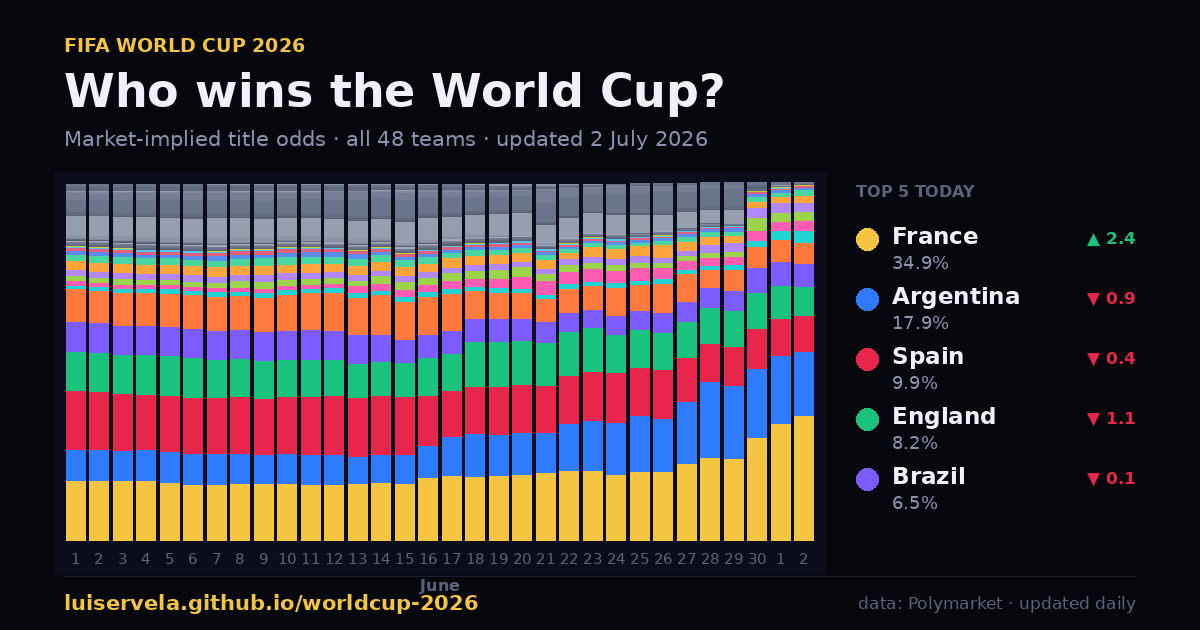
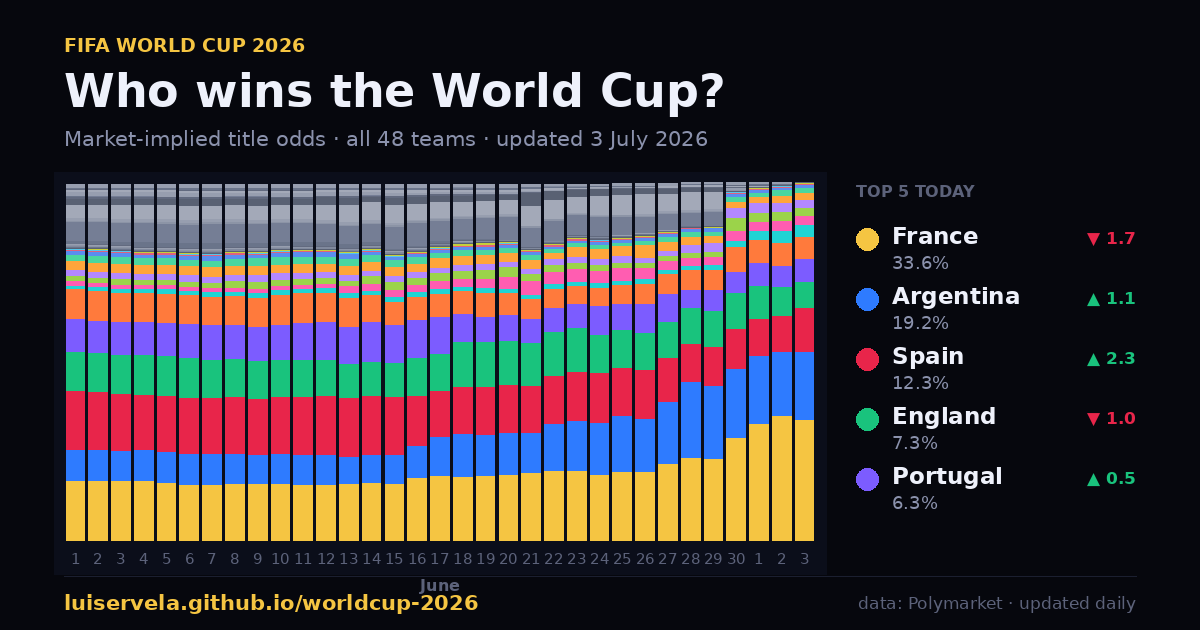
chore: odds snapshot 2026-07-03

diff --git a/history.js b/history.js
@@ -1,4 +1,4 @@
 /* Auto-generated by .github/workflows/odds-snapshot.yml — do not edit by hand.
    Owned daily archive of Polymarket win-probabilities; lets the chart render
    forever, even after the market closes. snapshots: [{date, p:{CODE: yesPrice}}]. */
-const HISTORY = {"updated":"2026-07-02T08:49:07.555Z","snapshots":[{"date":"2026-06-01","p":{"ESP":0.1695,"NZL":0.0005,"SUI":0.0115,"ENG":0.1115,"FRA":0.1705,"KOR":0.0025,"HAI":0.0005,"BRA":0.0865,"JOR":0.0005,"CUW":0.0005,"ARG":0.0895,"GER":0.0545,"COL":0.0175,"IRN":0.0015,"POR":0.0935,"GHA":0.0025,"NED":0.0365,"ALG":0.0015,"BIH":0.0025,"USA":0.0115,"CAN":0.0035,"TUR":0.0085,"URU":0.0105,"MEX":0.0105,"PAR":0.0025,"SCO":0.0025,"JPN":0.0175,"NOR":0.0255,"TUN":0.0015,"ECU":0.0085,"UZB":0.0005,"MAR":0.0145,"PAN":0.0005,"IRQ":0.0005,"RSA":0.0005,"SEN":0.0065,"CIV":0.0025,"COD":0.0005,"CPV":0.0005,"CZE":0.0025,"QAT":0.0005,"BEL":0.0175,"AUS":0.0015,"KSA":0.0005,"AUT":0.0055,"CRO":0.0085,"EGY":0.0025,"SWE":0.0055}},{"date":"2026-06-02","p":{"ESP":0.1675,"NZL":0.0005,"SUI":0.0115,"ENG":0.1115,"FRA":0.1705,"KOR":0.0025,"HAI":0.0005,"BRA":0.0855,"JOR":0.0005,"CUW":0.0005,"ARG":0.0895,"GER":0.0555,"COL":0.0175,"IRN":0.0015,"POR":0.0935,"GHA":0.0025,"NED":0.0365,"ALG":0.0015,"BIH":0.0025,"USA":0.0115,"CAN":0.0035,"TUR":0.0085,"URU":0.0115,"MEX":0.0105,"PAR":0.0025,"SCO":0.0025,"JPN":0.0175,"NOR":0.0265,"TUN":0.0015,"ECU":0.0085,"UZB":0.0005,"MAR":0.0155,"PAN":0.0005,"IRQ":0.0005,"RSA":0.0005,"SEN":0.0065,"CIV":0.0025,"COD":0.0005,"CPV":0.0005,"CZE":0.0025,"QAT":0.0005,"BEL":0.0195,"AUS":0.0015,"KSA":0.0005,"AUT":0.0055,"CRO":0.0085,"EGY":0.0025,"SWE":0.0055}},{"date":"2026-06-03","p":{"ESP":0.1635,"NZL":0.0005,"SUI":0.0105,"ENG":0.1115,"FRA":0.1705,"KOR":0.0025,"HAI":0.0005,"BRA":0.0835,"JOR":0.0005,"CUW":0.0005,"ARG":0.0875,"GER":0.0555,"COL":0.0175,"IRN":0.0015,"POR":0.0955,"GHA":0.0025,"NED":0.0395,"ALG":0.0015,"BIH":0.0025,"USA":0.0115,"CAN":0.0035,"TUR":0.0105,"URU":0.0115,"MEX":0.0115,"PAR":0.0025,"SCO":0.0025,"JPN":0.0175,"NOR":0.0275,"TUN":0.0005,"ECU":0.0085,"UZB":0.0005,"MAR":0.0155,"PAN":0.0005,"IRQ":0.0005,"RSA":0.0005,"SEN":0.0065,"CIV":0.0025,"COD":0.0005,"CPV":0.0005,"CZE":0.0025,"QAT":0.0005,"BEL":0.0195,"AUS":0.0015,"KSA":0.0005,"AUT":0.0055,"CRO":0.0085,"EGY":0.0025,"SWE":0.0055}},{"date":"2026-06-04","p":{"ESP":0.1595,"NZL":0.0005,"SUI":0.0095,"ENG":0.1145,"FRA":0.1705,"KOR":0.0025,"HAI":0.0005,"BRA":0.0825,"JOR":0.0005,"CUW":0.0005,"ARG":0.0895,"GER":0.0555,"COL":0.0175,"IRN":0.0015,"POR":0.0955,"GHA":0.0025,"NED":0.0395,"ALG":0.0015,"BIH":0.0025,"USA":0.0115,"CAN":0.0035,"TUR":0.0135,"URU":0.0115,"MEX":0.0115,"PAR":0.0025,"SCO":0.0025,"JPN":0.0175,"NOR":0.0255,"TUN":0.0005,"ECU":0.0085,"UZB":0.0005,"MAR":0.0155,"PAN":0.0005,"IRQ":0.0005,"RSA":0.0005,"SEN":0.0065,"CIV":0.0035,"COD":0.0005,"CPV":0.0005,"CZE":0.0025,"QAT":0.0005,"BEL":0.0195,"AUS":0.0015,"KSA":0.0005,"AUT":0.0055,"CRO":0.0085,"EGY":0.0025,"SWE":0.0055}},{"date":"2026-06-05","p":{"ESP":0.1595,"NZL":0.0005,"SUI":0.0095,"ENG":0.1145,"FRA":0.1645,"KOR":0.0025,"HAI":0.0005,"BRA":0.0835,"JOR":0.0005,"CUW":0.0005,"ARG":0.0885,"GER":0.0535,"COL":0.0175,"IRN":0.0015,"POR":0.0935,"GHA":0.0025,"NED":0.0395,"ALG":0.0015,"BIH":0.0025,"USA":0.0115,"CAN":0.0035,"TUR":0.013,"URU":0.0115,"MEX":0.0135,"PAR":0.0025,"SCO":0.0025,"JPN":0.0185,"NOR":0.0255,"TUN":0.0005,"ECU":0.0085,"UZB":0.0005,"MAR":0.0155,"PAN":0.0005,"IRQ":0.0005,"RSA":0.0005,"SEN":0.0065,"CIV":0.0045,"COD":0.0005,"CPV":0.0005,"CZE":0.0025,"QAT":0.0005,"BEL":0.0195,"AUS":0.0015,"KSA":0.0005,"AUT":0.0055,"CRO":0.0085,"EGY":0.0015,"SWE":0.0055}},{"date":"2026-06-06","p":{"ESP":0.1595,"NZL":0.0005,"SUI":0.0105,"ENG":0.1125,"FRA":0.1595,"KOR":0.0025,"HAI":0.0005,"BRA":0.0825,"JOR":0.0005,"CUW":0.0005,"ARG":0.0885,"GER":0.0535,"COL":0.0175,"IRN":0.0015,"POR":0.0965,"GHA":0.0025,"NED":0.0395,"ALG":0.0015,"BIH":0.0025,"USA":0.0115,"CAN":0.0035,"TUR":0.0135,"URU":0.0105,"MEX":0.0125,"PAR":0.0025,"SCO":0.0025,"JPN":0.0215,"NOR":0.0255,"TUN":0.0005,"ECU":0.0085,"UZB":0.0005,"MAR":0.0155,"PAN":0.0005,"IRQ":0.0005,"RSA":0.0005,"SEN":0.0065,"CIV":0.0045,"COD":0.0005,"CPV":0.0005,"CZE":0.0025,"QAT":0.0005,"BEL":0.0195,"AUS":0.0015,"KSA":0.0005,"AUT":0.0055,"CRO":0.0095,"EGY":0.0025,"SWE":0.0045}},{"date":"2026-06-07","p":{"ESP":0.1615,"NZL":0.0005,"SUI":0.0125,"ENG":0.1115,"FRA":0.1615,"KOR":0.0035,"HAI":0.0005,"BRA":0.0825,"JOR":0.0005,"CUW":0.0005,"ARG":0.0885,"GER":0.0565,"COL":0.0175,"IRN":0.0015,"POR":0.1005,"GHA":0.0015,"NED":0.0395,"ALG":0.0015,"BIH":0.0025,"USA":0.0115,"CAN":0.0035,"TUR":0.0145,"URU":0.0105,"MEX":0.0125,"PAR":0.0025,"SCO":0.0025,"JPN":0.0205,"NOR":0.0275,"TUN":0.0005,"ECU":0.0085,"UZB":0.0005,"MAR":0.0155,"PAN":0.0005,"IRQ":0.0005,"RSA":0.0005,"SEN":0.0065,"CIV":0.0045,"COD":0.0015,"CPV":0.0005,"CZE":0.0025,"QAT":0.0005,"BEL":0.0195,"AUS":0.0015,"KSA":0.0005,"AUT":0.0055,"CRO":0.0095,"EGY":0.0025,"SWE":0.0045}},{"date":"2026-06-08","p":{"ESP":0.1615,"NZL":0.0005,"SUI":0.0115,"ENG":0.1105,"FRA":0.1615,"KOR":0.0035,"HAI":0.0005,"BRA":0.0835,"JOR":0.0005,"CUW":0.0005,"ARG":0.0885,"GER":0.0545,"COL":0.0185,"IRN":0.0015,"POR":0.0965,"GHA":0.0015,"NED":0.0395,"ALG":0.0015,"BIH":0.0015,"USA":0.0115,"CAN":0.0035,"TUR":0.0135,"URU":0.0105,"MEX":0.0135,"PAR":0.0025,"SCO":0.0025,"JPN":0.0195,"NOR":0.0255,"TUN":0.0005,"ECU":0.0085,"UZB":0.0005,"MAR":0.0185,"PAN":0.0005,"IRQ":0.0005,"RSA":0.0005,"SEN":0.0065,"CIV":0.0045,"COD":0.0015,"CPV":0.0005,"CZE":0.0025,"QAT":0.0005,"BEL":0.0205,"AUS":0.0015,"KSA":0.0005,"AUT":0.0045,"CRO":0.0095,"EGY":0.0025,"SWE":0.0045}},{"date":"2026-06-09","p":{"ESP":0.1595,"NZL":0.0005,"SUI":0.0105,"ENG":0.1095,"FRA":0.1615,"KOR":0.0035,"HAI":0.0005,"BRA":0.0835,"JOR":0.0005,"CUW":0.0005,"ARG":0.0845,"GER":0.0535,"COL":0.0195,"IRN":0.0015,"POR":0.0985,"GHA":0.0015,"NED":0.0395,"ALG":0.0015,"BIH":0.0015,"USA":0.0115,"CAN":0.0035,"TUR":0.0125,"URU":0.0105,"MEX":0.0145,"PAR":0.0025,"SCO":0.0025,"JPN":0.0215,"NOR":0.0255,"TUN":0.0005,"ECU":0.0085,"UZB":0.0005,"MAR":0.0195,"PAN":0.0005,"IRQ":0.0005,"RSA":0.0005,"SEN":0.0065,"CIV":0.0045,"COD":0.0015,"CPV":0.0005,"CZE":0.0025,"QAT":0.0005,"BEL":0.0225,"AUS":0.0015,"KSA":0.0005,"AUT":0.0045,"CRO":0.0095,"EGY":0.0025,"SWE":0.0045}},{"date":"2026-06-10","p":{"ESP":0.1605,"NZL":0.0005,"SUI":0.0115,"ENG":0.1055,"FRA":0.1605,"KOR":0.0025,"HAI":0.0005,"BRA":0.0845,"JOR":0.0005,"CUW":0.0005,"ARG":0.0875,"GER":0.0525,"COL":0.0195,"IRN":0.0015,"POR":0.1015,"GHA":0.0015,"NED":0.0395,"ALG":0.0015,"BIH":0.0015,"USA":0.0115,"CAN":0.0035,"TUR":0.0115,"URU":0.0105,"MEX":0.0135,"PAR":0.0025,"SCO":0.0025,"JPN":0.0185,"NOR":0.0245,"TUN":0.0005,"ECU":0.0085,"UZB":0.0005,"MAR":0.0175,"PAN":0.0005,"IRQ":0.0005,"RSA":0.0005,"SEN":0.0065,"CIV":0.0045,"COD":0.0015,"CPV":0.0005,"CZE":0.0025,"QAT":0.0005,"BEL":0.0225,"AUS":0.0015,"KSA":0.0005,"AUT":0.0045,"CRO":0.0095,"EGY":0.0025,"SWE":0.0035}},{"date":"2026-06-11","p":{"ESP":0.1645,"NZL":0.0005,"SUI":0.0125,"ENG":0.1085,"FRA":0.1605,"KOR":0.0025,"HAI":0.0005,"BRA":0.0845,"JOR":0.0005,"CUW":0.0005,"ARG":0.0855,"GER":0.0525,"COL":0.0185,"IRN":0.0015,"POR":0.1055,"GHA":0.0015,"NED":0.0405,"ALG":0.0015,"BIH":0.0015,"USA":0.0115,"CAN":0.0035,"TUR":0.0125,"URU":0.0105,"MEX":0.0135,"PAR":0.0015,"SCO":0.0025,"JPN":0.0175,"NOR":0.0245,"TUN":0.0005,"ECU":0.0085,"UZB":0.0005,"MAR":0.0155,"PAN":0.0005,"IRQ":0.0005,"RSA":0.0005,"SEN":0.0075,"CIV":0.0045,"COD":0.0015,"CPV":0.0005,"CZE":0.0015,"QAT":0.0005,"BEL":0.0215,"AUS":0.0015,"KSA":0.0005,"AUT":0.0045,"CRO":0.0095,"EGY":0.0025,"SWE":0.0035}},{"date":"2026-06-12","p":{"ESP":0.1695,"NZL":0.0005,"SUI":0.0135,"ENG":0.1045,"FRA":0.1605,"KOR":0.0045,"HAI":0.0005,"BRA":0.0855,"JOR":0.0005,"CUW":0.0005,"ARG":0.0885,"GER":0.0515,"COL":0.0175,"IRN":0.0015,"POR":0.1105,"GHA":0.0015,"NED":0.0445,"ALG":0.0015,"BIH":0.0015,"USA":0.0115,"CAN":0.0035,"TUR":0.0115,"URU":0.0095,"MEX":0.0145,"PAR":0.0015,"SCO":0.0025,"JPN":0.0205,"NOR":0.0245,"TUN":0.0005,"ECU":0.0085,"UZB":0.0005,"MAR":0.0155,"PAN":0.0005,"IRQ":0.0005,"RSA":0.0005,"SEN":0.0065,"CIV":0.0035,"COD":0.0015,"CPV":0.0005,"CZE":0.0005,"QAT":0.0005,"BEL":0.0205,"AUS":0.0015,"KSA":0.0005,"AUT":0.0045,"CRO":0.0085,"EGY":0.0025,"SWE":0.0035}},{"date":"2026-06-13","p":{"ESP":0.1685,"NZL":0.0005,"SUI":0.0135,"ENG":0.0965,"FRA":0.1605,"KOR":0.0045,"HAI":0.0005,"BRA":0.0835,"JOR":0.0005,"CUW":0.0005,"ARG":0.0785,"GER":0.0515,"COL":0.0165,"IRN":0.0015,"POR":0.1055,"GHA":0.0015,"NED":0.0485,"ALG":0.0015,"BIH":0.0015,"USA":0.0195,"CAN":0.0025,"TUR":0.0115,"URU":0.0095,"MEX":0.0145,"PAR":0.0015,"SCO":0.0025,"JPN":0.0205,"NOR":0.0255,"TUN":0.0005,"ECU":0.0085,"UZB":0.0005,"MAR":0.0145,"PAN":0.0005,"IRQ":0.0005,"RSA":0.0005,"SEN":0.0065,"CIV":0.0035,"COD":0.0015,"CPV":0.0005,"CZE":0.0015,"QAT":0.0005,"BEL":0.0205,"AUS":0.0015,"KSA":0.0005,"AUT":0.0045,"CRO":0.0085,"EGY":0.0015,"SWE":0.0035}},{"date":"2026-06-14","p":{"ESP":0.1665,"NZL":0.0005,"SUI":0.0095,"ENG":0.0965,"FRA":0.1635,"KOR":0.0035,"HAI":0.0005,"BRA":0.0745,"JOR":0.0005,"CUW":0.0005,"ARG":0.0785,"GER":0.0515,"COL":0.0155,"IRN":0.0015,"POR":0.1135,"GHA":0.0015,"NED":0.0505,"ALG":0.0015,"BIH":0.0015,"USA":0.0205,"CAN":0.0025,"TUR":0.0065,"URU":0.0085,"MEX":0.0125,"PAR":0.0015,"SCO":0.0025,"JPN":0.0165,"NOR":0.0245,"TUN":0.0005,"ECU":0.0075,"UZB":0.0005,"MAR":0.0215,"PAN":0.0005,"IRQ":0.0005,"RSA":0.0005,"SEN":0.0065,"CIV":0.0035,"COD":0.0015,"CPV":0.0005,"CZE":0.0015,"QAT":0.0005,"BEL":0.0195,"AUS":0.0035,"KSA":0.0005,"AUT":0.0035,"CRO":0.0085,"EGY":0.0015,"SWE":0.0025}},{"date":"2026-06-15","p":{"ESP":0.1625,"NZL":0.0005,"SUI":0.0085,"ENG":0.0965,"FRA":0.1605,"KOR":0.0045,"HAI":0.0005,"BRA":0.0665,"JOR":0.0005,"CUW":0.0005,"ARG":0.0805,"GER":0.0615,"COL":0.0155,"IRN":0.0015,"POR":0.1075,"GHA":0.0015,"NED":0.0505,"ALG":0.0015,"BIH":0.0015,"USA":0.0205,"CAN":0.0025,"TUR":0.0045,"URU":0.0085,"MEX":0.0135,"PAR":0.0015,"SCO":0.0025,"JPN":0.0205,"NOR":0.0245,"TUN":0.0005,"ECU":0.0045,"UZB":0.0005,"MAR":0.0225,"PAN":0.0005,"IRQ":0.0005,"RSA":0.0005,"SEN":0.0065,"CIV":0.0055,"COD":0.0015,"CPV":0.0005,"CZE":0.0015,"QAT":0.0005,"BEL":0.0195,"AUS":0.0035,"KSA":0.0005,"AUT":0.0045,"CRO":0.0085,"EGY":0.0015,"SWE":0.0055}},{"date":"2026-06-16","p":{"ESP":0.1415,"NZL":0.0005,"SUI":0.0085,"ENG":0.1055,"FRA":0.1765,"KOR":0.0035,"HAI":0.0005,"BRA":0.0665,"JOR":0.0005,"CUW":0.0005,"ARG":0.0925,"GER":0.0635,"COL":0.0155,"IRN":0.0005,"POR":0.1075,"GHA":0.0015,"NED":0.0455,"ALG":0.0015,"BIH":0.0015,"USA":0.0205,"CAN":0.0025,"TUR":0.0045,"URU":0.0065,"MEX":0.0125,"PAR":0.0015,"SCO":0.0025,"JPN":0.0185,"NOR":0.0245,"TUN":0.0005,"ECU":0.0045,"UZB":0.0005,"MAR":0.0215,"PAN":0.0005,"IRQ":0.0005,"RSA":0.0005,"SEN":0.0065,"CIV":0.0055,"COD":0.0015,"CPV":0.0005,"CZE":0.0015,"QAT":0.0005,"BEL":0.0175,"AUS":0.0035,"KSA":0.0005,"AUT":0.0045,"CRO":0.0085,"EGY":0.0025,"SWE":0.0055}},{"date":"2026-06-17","p":{"ESP":0.1325,"NZL":0.0005,"SUI":0.0085,"ENG":0.1045,"FRA":0.1845,"KOR":0.0035,"HAI":0.0005,"BRA":0.0665,"JOR":0.0005,"CUW":0.0005,"ARG":0.1105,"GER":0.0565,"COL":0.0145,"IRN":0.0005,"POR":0.1045,"GHA":0.0015,"NED":0.0445,"ALG":0.0015,"BIH":0.0015,"USA":0.0225,"CAN":0.0025,"TUR":0.0045,"URU":0.0065,"MEX":0.0145,"PAR":0.0015,"SCO":0.0025,"JPN":0.0165,"NOR":0.0265,"TUN":0.0005,"ECU":0.0045,"UZB":0.0005,"MAR":0.0235,"PAN":0.0005,"IRQ":0.0005,"RSA":0.0005,"SEN":0.0065,"CIV":0.0055,"COD":0.0005,"CPV":0.0005,"CZE":0.0005,"QAT":0.0005,"BEL":0.0165,"AUS":0.0045,"KSA":0.0005,"AUT":0.0045,"CRO":0.0075,"EGY":0.0025,"SWE":0.0055}},{"date":"2026-06-18","p":{"ESP":0.1375,"NZL":0.0005,"SUI":0.0085,"ENG":0.1285,"FRA":0.1845,"KOR":0.0035,"HAI":0.0005,"BRA":0.0665,"JOR":0.0005,"CUW":0.0005,"ARG":0.1225,"GER":0.0565,"COL":0.0165,"IRN":0.0005,"POR":0.0805,"GHA":0.0015,"NED":0.0395,"ALG":0.0015,"BIH":0.0015,"USA":0.0225,"CAN":0.0025,"TUR":0.0045,"URU":0.0065,"MEX":0.0135,"PAR":0.0015,"SCO":0.0025,"JPN":0.0165,"NOR":0.0265,"TUN":0.0005,"ECU":0.0045,"UZB":0.0005,"MAR":0.0235,"PAN":0.0005,"IRQ":0.0005,"RSA":0.0005,"SEN":0.0065,"CIV":0.0055,"COD":0.0015,"CPV":0.0005,"CZE":0.0005,"QAT":0.0005,"BEL":0.0165,"AUS":0.0045,"KSA":0.0005,"AUT":0.0045,"CRO":0.0065,"EGY":0.0025,"SWE":0.0055}},{"date":"2026-06-19","p":{"ESP":0.1365,"NZL":0.0005,"SUI":0.0095,"ENG":0.1285,"FRA":0.1845,"KOR":0.0035,"HAI":0.0005,"BRA":0.0665,"JOR":0.0005,"CUW":0.0005,"ARG":0.1175,"GER":0.0585,"COL":0.0165,"IRN":0.0005,"POR":0.0735,"GHA":0.0015,"NED":0.0395,"ALG":0.0005,"BIH":0.0005,"USA":0.0245,"CAN":0.0035,"TUR":0.0045,"URU":0.0055,"MEX":0.0155,"PAR":0.0015,"SCO":0.0015,"JPN":0.0165,"NOR":0.0255,"TUN":0.0005,"ECU":0.0045,"UZB":0.0005,"MAR":0.0265,"PAN":0.0005,"IRQ":0.0005,"RSA":0.0005,"SEN":0.0055,"CIV":0.0045,"COD":0.0015,"CPV":0.0005,"CZE":0.0005,"QAT":0.0005,"BEL":0.0155,"AUS":0.0045,"KSA":0.0005,"AUT":0.0045,"CRO":0.0065,"EGY":0.0025,"SWE":0.0055}},{"date":"2026-06-20","p":{"ESP":0.1365,"NZL":0.0005,"SUI":0.0085,"ENG":0.1255,"FRA":0.1855,"KOR":0.0035,"HAI":0,"BRA":0.0615,"JOR":0.0005,"CUW":0.0005,"ARG":0.1175,"GER":0.0635,"COL":0.0155,"IRN":0.0005,"POR":0.0735,"GHA":0.0005,"NED":0.0395,"ALG":0.0005,"BIH":0.0005,"USA":0.0325,"CAN":0.0035,"TUR":0,"URU":0.0055,"MEX":0.0125,"PAR":0.0015,"SCO":0.0015,"JPN":0.0135,"NOR":0.0245,"TUN":0.0005,"ECU":0.0045,"UZB":0.0005,"MAR":0.0275,"PAN":0.0005,"IRQ":0.0005,"RSA":0.0005,"SEN":0.0055,"CIV":0.0045,"COD":0.0015,"CPV":0.0005,"CZE":0.0005,"QAT":0.0005,"BEL":0.0155,"AUS":0.0035,"KSA":0.0005,"AUT":0.0045,"CRO":0.0065,"EGY":0.0015,"SWE":0.0045}},{"date":"2026-06-21","p":{"ESP":0.1365,"NZL":0.0005,"SUI":0.0075,"ENG":0.1255,"FRA":0.1975,"KOR":0.0035,"HAI":0,"BRA":0.0595,"JOR":0.0005,"CUW":0.0005,"ARG":0.1175,"GER":0.0565,"COL":0.0145,"IRN":0.0005,"POR":0.0685,"GHA":0.0005,"NED":0.0575,"ALG":0.0005,"BIH":0.0005,"USA":0.0385,"CAN":0.0035,"TUR":0,"URU":0.0055,"MEX":0.0125,"PAR":0.0015,"SCO":0.0015,"JPN":0.0365,"NOR":0.0245,"TUN":0,"ECU":0.0015,"UZB":0.0005,"MAR":0.0225,"PAN":0.0005,"IRQ":0.0005,"RSA":0.0005,"SEN":0.0055,"CIV":0.0055,"COD":0.0015,"CPV":0.0005,"CZE":0.0005,"QAT":0.0005,"BEL":0.0155,"AUS":0.0025,"KSA":0.0005,"AUT":0.0035,"CRO":0.0055,"EGY":0.0025,"SWE":0.0025}},{"date":"2026-06-22","p":{"ESP":0.1385,"NZL":0.0005,"SUI":0.0065,"ENG":0.1255,"FRA":0.1975,"KOR":0.0025,"HAI":0,"BRA":0.0555,"JOR":0.0005,"CUW":0.0005,"ARG":0.1335,"GER":0.0565,"COL":0.0145,"IRN":0.0005,"POR":0.0675,"GHA":0.0015,"NED":0.0545,"ALG":0.0005,"BIH":0.0005,"USA":0.0355,"CAN":0.0035,"TUR":0,"URU":0.0015,"MEX":0.0125,"PAR":0.0015,"SCO":0.0015,"JPN":0.0235,"NOR":0.0195,"TUN":0,"ECU":0.0015,"UZB":0.0005,"MAR":0.0215,"PAN":0.0005,"IRQ":0.0005,"RSA":0.0005,"SEN":0.0055,"CIV":0.0045,"COD":0.0015,"CPV":0.0015,"CZE":0.0005,"QAT":0.0005,"BEL":0.0105,"AUS":0.0025,"KSA":0.0005,"AUT":0.0035,"CRO":0.0045,"EGY":0.0025,"SWE":0.0025}},{"date":"2026-06-23","p":{"ESP":0.1385,"NZL":0.0005,"SUI":0.0065,"ENG":0.1235,"FRA":0.1975,"KOR":0.0025,"HAI":0,"BRA":0.0505,"JOR":0,"CUW":0.0005,"ARG":0.1415,"GER":0.0565,"COL":0.0145,"IRN":0.0005,"POR":0.0675,"GHA":0.0015,"NED":0.0475,"ALG":0.0005,"BIH":0.0005,"USA":0.0355,"CAN":0.0035,"TUR":0,"URU":0.0015,"MEX":0.0125,"PAR":0.0015,"SCO":0.0015,"JPN":0.0185,"NOR":0.0285,"TUN":0,"ECU":0.0015,"UZB":0.0005,"MAR":0.0185,"PAN":0.0005,"IRQ":0.0005,"RSA":0.0005,"SEN":0.0025,"CIV":0.0035,"COD":0.0015,"CPV":0.0005,"CZE":0.0005,"QAT":0.0005,"BEL":0.0125,"AUS":0.0025,"KSA":0.0005,"AUT":0.0025,"CRO":0.0045,"EGY":0.0025,"SWE":0.0025}},{"date":"2026-06-24","p":{"ESP":0.1385,"NZL":0.0005,"SUI":0.0065,"ENG":0.1085,"FRA":0.1855,"KOR":0.0025,"HAI":0,"BRA":0.0515,"JOR":0,"CUW":0.0005,"ARG":0.1465,"GER":0.0535,"COL":0.0155,"IRN":0.0005,"POR":0.0815,"GHA":0.0015,"NED":0.0535,"ALG":0.0005,"BIH":0.0005,"USA":0.0345,"CAN":0.0035,"TUR":0,"URU":0.0015,"MEX":0.0125,"PAR":0.0015,"SCO":0.0015,"JPN":0.0195,"NOR":0.0305,"TUN":0,"ECU":0.0015,"UZB":0.0005,"MAR":0.0165,"PAN":0,"IRQ":0.0005,"RSA":0.0005,"SEN":0.0025,"CIV":0.0035,"COD":0.0005,"CPV":0.0015,"CZE":0.0005,"QAT":0.0005,"BEL":0.0115,"AUS":0.0025,"KSA":0.0005,"AUT":0.0025,"CRO":0.0045,"EGY":0.0025,"SWE":0.0025}},{"date":"2026-06-25","p":{"ESP":0.1385,"NZL":0.0005,"SUI":0.0085,"ENG":0.1055,"FRA":0.1945,"KOR":0.0015,"HAI":0,"BRA":0.0545,"JOR":0,"CUW":0.0005,"ARG":0.1575,"GER":0.0525,"COL":0.0175,"IRN":0.0005,"POR":0.0755,"GHA":0.0015,"NED":0.0565,"ALG":0.0005,"BIH":0.0015,"USA":0.0345,"CAN":0.0025,"TUR":0,"URU":0.0015,"MEX":0.0115,"PAR":0.0005,"SCO":0.0005,"JPN":0.0175,"NOR":0.0285,"TUN":0,"ECU":0.0015,"UZB":0.0005,"MAR":0.0165,"PAN":0,"IRQ":0.0005,"RSA":0.0005,"SEN":0.0025,"CIV":0.0035,"COD":0.0005,"CPV":0.0015,"CZE":0,"QAT":0,"BEL":0.0105,"AUS":0.0015,"KSA":0.0005,"AUT":0.0025,"CRO":0.0035,"EGY":0.0025,"SWE":0.0025}},{"date":"2026-06-26","p":{"ESP":0.1375,"NZL":0.0005,"SUI":0.0085,"ENG":0.1005,"FRA":0.1885,"KOR":0.0015,"HAI":0,"BRA":0.0555,"JOR":0,"CUW":0,"ARG":0.1475,"GER":0.0445,"COL":0.0145,"IRN":0.0005,"POR":0.0825,"GHA":0.0015,"NED":0.0575,"ALG":0.0005,"BIH":0.0015,"USA":0.0305,"CAN":0.0025,"TUR":0,"URU":0.0015,"MEX":0.0125,"PAR":0.0015,"SCO":0.0005,"JPN":0.0125,"NOR":0.0345,"TUN":0,"ECU":0.0055,"UZB":0.0005,"MAR":0.0145,"PAN":0,"IRQ":0.0005,"RSA":0.0005,"SEN":0.0025,"CIV":0.0025,"COD":0.0005,"CPV":0.0015,"CZE":0,"QAT":0,"BEL":0.0105,"AUS":0.0015,"KSA":0.0005,"AUT":0.0025,"CRO":0.0045,"EGY":0.0025,"SWE":0.0025}},{"date":"2026-06-27","p":{"ESP":0.1245,"NZL":0.0005,"SUI":0.0095,"ENG":0.1025,"FRA":0.2155,"KOR":0.0005,"HAI":0,"BRA":0.0565,"JOR":0,"CUW":0,"ARG":0.1765,"GER":0.0455,"COL":0.0145,"IRN":0.0005,"POR":0.0785,"GHA":0.0015,"NED":0.0465,"ALG":0.0005,"BIH":0.0015,"USA":0.0255,"CAN":0.0025,"TUR":0,"URU":0,"MEX":0.0125,"PAR":0.0005,"SCO":0.0005,"JPN":0.0155,"NOR":0.0255,"TUN":0,"ECU":0.0065,"UZB":0.0005,"MAR":0.0145,"PAN":0,"IRQ":0,"RSA":0.0005,"SEN":0.0045,"CIV":0.0035,"COD":0.0005,"CPV":0.0015,"CZE":0,"QAT":0,"BEL":0.0135,"AUS":0.0015,"KSA":0,"AUT":0.0015,"CRO":0.0045,"EGY":0.0015,"SWE":0.0025}},{"date":"2026-06-28","p":{"ESP":0.1055,"NZL":0,"SUI":0.0095,"ENG":0.1025,"FRA":0.2295,"KOR":0,"HAI":0,"BRA":0.0555,"JOR":0,"CUW":0,"ARG":0.2115,"GER":0.0365,"COL":0.0235,"IRN":0,"POR":0.0505,"GHA":0.0015,"NED":0.0505,"ALG":0.0015,"BIH":0.0015,"USA":0.0215,"CAN":0.0015,"TUR":0,"URU":0,"MEX":0.0115,"PAR":0.0005,"SCO":0,"JPN":0.0115,"NOR":0.0205,"TUN":0,"ECU":0.0055,"UZB":0,"MAR":0.0135,"PAN":0,"IRQ":0,"RSA":0.0005,"SEN":0.0045,"CIV":0.0025,"COD":0.0005,"CPV":0.0015,"CZE":0,"QAT":0,"BEL":0.0135,"AUS":0.0015,"KSA":0,"AUT":0.0015,"CRO":0.0035,"EGY":0.0015,"SWE":0.0015}},{"date":"2026-06-29","p":{"ESP":0.1105,"NZL":0,"SUI":0.0095,"ENG":0.1025,"FRA":0.2325,"KOR":0,"HAI":0,"BRA":0.0575,"JOR":0,"CUW":0,"ARG":0.2085,"GER":0.0395,"COL":0.0255,"IRN":0,"POR":0.0615,"GHA":0.0015,"NED":0.0505,"ALG":0.0015,"BIH":0.0005,"USA":0.0235,"CAN":0.0025,"TUR":0,"URU":0,"MEX":0.0125,"PAR":0.0005,"SCO":0,"JPN":0.0115,"NOR":0.0195,"TUN":0,"ECU":0.0055,"UZB":0,"MAR":0.0135,"PAN":0,"IRQ":0,"RSA":0,"SEN":0.0045,"CIV":0.0025,"COD":0.0005,"CPV":0.0005,"CZE":0,"QAT":0,"BEL":0.0135,"AUS":0.0015,"KSA":0,"AUT":0.0015,"CRO":0.0035,"EGY":0.0015,"SWE":0.0015}},{"date":"2026-06-30","p":{"ESP":0.1125,"NZL":0,"SUI":0.0085,"ENG":0.1005,"FRA":0.2885,"KOR":0,"HAI":0,"BRA":0.0705,"JOR":0,"CUW":0,"ARG":0.1935,"GER":0,"COL":0.0275,"IRN":0,"POR":0.0605,"GHA":0.0005,"NED":0,"ALG":0.0015,"BIH":0.0005,"USA":0.0275,"CAN":0.0025,"TUR":0,"URU":0,"MEX":0.0165,"PAR":0.0025,"SCO":0,"JPN":0,"NOR":0.0185,"TUN":0,"ECU":0.0055,"UZB":0,"MAR":0.0365,"PAN":0,"IRQ":0,"RSA":0,"SEN":0.0045,"CIV":0.0035,"COD":0.0005,"CPV":0.0005,"CZE":0,"QAT":0,"BEL":0.0135,"AUS":0.0015,"KSA":0,"AUT":0.0015,"CRO":0.0045,"EGY":0.0015,"SWE":0.0015}},{"date":"2026-07-01","p":{"ESP":0.1035,"NZL":0,"SUI":0.0085,"ENG":0.0935,"FRA":0.3275,"KOR":0,"HAI":0,"BRA":0.0665,"JOR":0,"CUW":0,"ARG":0.1895,"GER":0,"COL":0.0275,"IRN":0,"POR":0.0625,"GHA":0.0005,"NED":0,"ALG":0.0015,"BIH":0.0005,"USA":0.0255,"CAN":0.0025,"TUR":0,"URU":0,"MEX":0.0255,"PAR":0.0015,"SCO":0,"JPN":0,"NOR":0.0175,"TUN":0,"ECU":0,"UZB":0,"MAR":0.0235,"PAN":0,"IRQ":0,"RSA":0,"SEN":0.0055,"CIV":0,"COD":0.0005,"CPV":0.0005,"CZE":0,"QAT":0,"BEL":0.0115,"AUS":0.0015,"KSA":0,"AUT":0.0015,"CRO":0.0035,"EGY":0.0015,"SWE":0}},{"date":"2026-07-02","p":{"ESP":0.0995,"NZL":0,"SUI":0.0075,"ENG":0.0825,"FRA":0.3515,"KOR":0,"HAI":0,"BRA":0.0655,"JOR":0,"CUW":0,"ARG":0.1805,"GER":0,"COL":0.0255,"IRN":0,"POR":0.058,"GHA":0.0015,"NED":0,"ALG":0.0005,"BIH":0,"USA":0.0275,"CAN":0.0025,"TUR":0,"URU":0,"MEX":0.0355,"PAR":0.0015,"SCO":0,"JPN":0,"NOR":0.0195,"TUN":0,"ECU":0,"UZB":0,"MAR":0.0255,"PAN":0,"IRQ":0,"RSA":0,"SEN":0,"CIV":0,"COD":0,"CPV":0.0005,"CZE":0,"QAT":0,"BEL":0.0155,"AUS":0.0015,"KSA":0,"AUT":0.0015,"CRO":0.0035,"EGY":0.0015,"SWE":0}}]};
+const HISTORY = {"updated":"2026-07-03T08:55:46.460Z","snapshots":[{"date":"2026-06-01","p":{"ESP":0.1695,"NZL":0.0005,"SUI":0.0115,"ENG":0.1115,"FRA":0.1705,"KOR":0.0025,"HAI":0.0005,"BRA":0.0865,"JOR":0.0005,"CUW":0.0005,"ARG":0.0895,"GER":0.0545,"COL":0.0175,"IRN":0.0015,"POR":0.0935,"GHA":0.0025,"NED":0.0365,"ALG":0.0015,"BIH":0.0025,"USA":0.0115,"CAN":0.0035,"TUR":0.0085,"URU":0.0105,"MEX":0.0105,"PAR":0.0025,"SCO":0.0025,"JPN":0.0175,"NOR":0.0255,"TUN":0.0015,"ECU":0.0085,"UZB":0.0005,"MAR":0.0145,"PAN":0.0005,"IRQ":0.0005,"RSA":0.0005,"SEN":0.0065,"CIV":0.0025,"COD":0.0005,"CPV":0.0005,"CZE":0.0025,"QAT":0.0005,"BEL":0.0175,"AUS":0.0015,"KSA":0.0005,"AUT":0.0055,"CRO":0.0085,"EGY":0.0025,"SWE":0.0055}},{"date":"2026-06-02","p":{"ESP":0.1675,"NZL":0.0005,"SUI":0.0115,"ENG":0.1115,"FRA":0.1705,"KOR":0.0025,"HAI":0.0005,"BRA":0.0855,"JOR":0.0005,"CUW":0.0005,"ARG":0.0895,"GER":0.0555,"COL":0.0175,"IRN":0.0015,"POR":0.0935,"GHA":0.0025,"NED":0.0365,"ALG":0.0015,"BIH":0.0025,"USA":0.0115,"CAN":0.0035,"TUR":0.0085,"URU":0.0115,"MEX":0.0105,"PAR":0.0025,"SCO":0.0025,"JPN":0.0175,"NOR":0.0265,"TUN":0.0015,"ECU":0.0085,"UZB":0.0005,"MAR":0.0155,"PAN":0.0005,"IRQ":0.0005,"RSA":0.0005,"SEN":0.0065,"CIV":0.0025,"COD":0.0005,"CPV":0.0005,"CZE":0.0025,"QAT":0.0005,"BEL":0.0195,"AUS":0.0015,"KSA":0.0005,"AUT":0.0055,"CRO":0.0085,"EGY":0.0025,"SWE":0.0055}},{"date":"2026-06-03","p":{"ESP":0.1635,"NZL":0.0005,"SUI":0.0105,"ENG":0.1115,"FRA":0.1705,"KOR":0.0025,"HAI":0.0005,"BRA":0.0835,"JOR":0.0005,"CUW":0.0005,"ARG":0.0875,"GER":0.0555,"COL":0.0175,"IRN":0.0015,"POR":0.0955,"GHA":0.0025,"NED":0.0395,"ALG":0.0015,"BIH":0.0025,"USA":0.0115,"CAN":0.0035,"TUR":0.0105,"URU":0.0115,"MEX":0.0115,"PAR":0.0025,"SCO":0.0025,"JPN":0.0175,"NOR":0.0275,"TUN":0.0005,"ECU":0.0085,"UZB":0.0005,"MAR":0.0155,"PAN":0.0005,"IRQ":0.0005,"RSA":0.0005,"SEN":0.0065,"CIV":0.0025,"COD":0.0005,"CPV":0.0005,"CZE":0.0025,"QAT":0.0005,"BEL":0.0195,"AUS":0.0015,"KSA":0.0005,"AUT":0.0055,"CRO":0.0085,"EGY":0.0025,"SWE":0.0055}},{"date":"2026-06-04","p":{"ESP":0.1595,"NZL":0.0005,"SUI":0.0095,"ENG":0.1145,"FRA":0.1705,"KOR":0.0025,"HAI":0.0005,"BRA":0.0825,"JOR":0.0005,"CUW":0.0005,"ARG":0.0895,"GER":0.0555,"COL":0.0175,"IRN":0.0015,"POR":0.0955,"GHA":0.0025,"NED":0.0395,"ALG":0.0015,"BIH":0.0025,"USA":0.0115,"CAN":0.0035,"TUR":0.0135,"URU":0.0115,"MEX":0.0115,"PAR":0.0025,"SCO":0.0025,"JPN":0.0175,"NOR":0.0255,"TUN":0.0005,"ECU":0.0085,"UZB":0.0005,"MAR":0.0155,"PAN":0.0005,"IRQ":0.0005,"RSA":0.0005,"SEN":0.0065,"CIV":0.0035,"COD":0.0005,"CPV":0.0005,"CZE":0.0025,"QAT":0.0005,"BEL":0.0195,"AUS":0.0015,"KSA":0.0005,"AUT":0.0055,"CRO":0.0085,"EGY":0.0025,"SWE":0.0055}},{"date":"2026-06-05","p":{"ESP":0.1595,"NZL":0.0005,"SUI":0.0095,"ENG":0.1145,"FRA":0.1645,"KOR":0.0025,"HAI":0.0005,"BRA":0.0835,"JOR":0.0005,"CUW":0.0005,"ARG":0.0885,"GER":0.0535,"COL":0.0175,"IRN":0.0015,"POR":0.0935,"GHA":0.0025,"NED":0.0395,"ALG":0.0015,"BIH":0.0025,"USA":0.0115,"CAN":0.0035,"TUR":0.013,"URU":0.0115,"MEX":0.0135,"PAR":0.0025,"SCO":0.0025,"JPN":0.0185,"NOR":0.0255,"TUN":0.0005,"ECU":0.0085,"UZB":0.0005,"MAR":0.0155,"PAN":0.0005,"IRQ":0.0005,"RSA":0.0005,"SEN":0.0065,"CIV":0.0045,"COD":0.0005,"CPV":0.0005,"CZE":0.0025,"QAT":0.0005,"BEL":0.0195,"AUS":0.0015,"KSA":0.0005,"AUT":0.0055,"CRO":0.0085,"EGY":0.0015,"SWE":0.0055}},{"date":"2026-06-06","p":{"ESP":0.1595,"NZL":0.0005,"SUI":0.0105,"ENG":0.1125,"FRA":0.1595,"KOR":0.0025,"HAI":0.0005,"BRA":0.0825,"JOR":0.0005,"CUW":0.0005,"ARG":0.0885,"GER":0.0535,"COL":0.0175,"IRN":0.0015,"POR":0.0965,"GHA":0.0025,"NED":0.0395,"ALG":0.0015,"BIH":0.0025,"USA":0.0115,"CAN":0.0035,"TUR":0.0135,"URU":0.0105,"MEX":0.0125,"PAR":0.0025,"SCO":0.0025,"JPN":0.0215,"NOR":0.0255,"TUN":0.0005,"ECU":0.0085,"UZB":0.0005,"MAR":0.0155,"PAN":0.0005,"IRQ":0.0005,"RSA":0.0005,"SEN":0.0065,"CIV":0.0045,"COD":0.0005,"CPV":0.0005,"CZE":0.0025,"QAT":0.0005,"BEL":0.0195,"AUS":0.0015,"KSA":0.0005,"AUT":0.0055,"CRO":0.0095,"EGY":0.0025,"SWE":0.0045}},{"date":"2026-06-07","p":{"ESP":0.1615,"NZL":0.0005,"SUI":0.0125,"ENG":0.1115,"FRA":0.1615,"KOR":0.0035,"HAI":0.0005,"BRA":0.0825,"JOR":0.0005,"CUW":0.0005,"ARG":0.0885,"GER":0.0565,"COL":0.0175,"IRN":0.0015,"POR":0.1005,"GHA":0.0015,"NED":0.0395,"ALG":0.0015,"BIH":0.0025,"USA":0.0115,"CAN":0.0035,"TUR":0.0145,"URU":0.0105,"MEX":0.0125,"PAR":0.0025,"SCO":0.0025,"JPN":0.0205,"NOR":0.0275,"TUN":0.0005,"ECU":0.0085,"UZB":0.0005,"MAR":0.0155,"PAN":0.0005,"IRQ":0.0005,"RSA":0.0005,"SEN":0.0065,"CIV":0.0045,"COD":0.0015,"CPV":0.0005,"CZE":0.0025,"QAT":0.0005,"BEL":0.0195,"AUS":0.0015,"KSA":0.0005,"AUT":0.0055,"CRO":0.0095,"EGY":0.0025,"SWE":0.0045}},{"date":"2026-06-08","p":{"ESP":0.1615,"NZL":0.0005,"SUI":0.0115,"ENG":0.1105,"FRA":0.1615,"KOR":0.0035,"HAI":0.0005,"BRA":0.0835,"JOR":0.0005,"CUW":0.0005,"ARG":0.0885,"GER":0.0545,"COL":0.0185,"IRN":0.0015,"POR":0.0965,"GHA":0.0015,"NED":0.0395,"ALG":0.0015,"BIH":0.0015,"USA":0.0115,"CAN":0.0035,"TUR":0.0135,"URU":0.0105,"MEX":0.0135,"PAR":0.0025,"SCO":0.0025,"JPN":0.0195,"NOR":0.0255,"TUN":0.0005,"ECU":0.0085,"UZB":0.0005,"MAR":0.0185,"PAN":0.0005,"IRQ":0.0005,"RSA":0.0005,"SEN":0.0065,"CIV":0.0045,"COD":0.0015,"CPV":0.0005,"CZE":0.0025,"QAT":0.0005,"BEL":0.0205,"AUS":0.0015,"KSA":0.0005,"AUT":0.0045,"CRO":0.0095,"EGY":0.0025,"SWE":0.0045}},{"date":"2026-06-09","p":{"ESP":0.1595,"NZL":0.0005,"SUI":0.0105,"ENG":0.1095,"FRA":0.1615,"KOR":0.0035,"HAI":0.0005,"BRA":0.0835,"JOR":0.0005,"CUW":0.0005,"ARG":0.0845,"GER":0.0535,"COL":0.0195,"IRN":0.0015,"POR":0.0985,"GHA":0.0015,"NED":0.0395,"ALG":0.0015,"BIH":0.0015,"USA":0.0115,"CAN":0.0035,"TUR":0.0125,"URU":0.0105,"MEX":0.0145,"PAR":0.0025,"SCO":0.0025,"JPN":0.0215,"NOR":0.0255,"TUN":0.0005,"ECU":0.0085,"UZB":0.0005,"MAR":0.0195,"PAN":0.0005,"IRQ":0.0005,"RSA":0.0005,"SEN":0.0065,"CIV":0.0045,"COD":0.0015,"CPV":0.0005,"CZE":0.0025,"QAT":0.0005,"BEL":0.0225,"AUS":0.0015,"KSA":0.0005,"AUT":0.0045,"CRO":0.0095,"EGY":0.0025,"SWE":0.0045}},{"date":"2026-06-10","p":{"ESP":0.1605,"NZL":0.0005,"SUI":0.0115,"ENG":0.1055,"FRA":0.1605,"KOR":0.0025,"HAI":0.0005,"BRA":0.0845,"JOR":0.0005,"CUW":0.0005,"ARG":0.0875,"GER":0.0525,"COL":0.0195,"IRN":0.0015,"POR":0.1015,"GHA":0.0015,"NED":0.0395,"ALG":0.0015,"BIH":0.0015,"USA":0.0115,"CAN":0.0035,"TUR":0.0115,"URU":0.0105,"MEX":0.0135,"PAR":0.0025,"SCO":0.0025,"JPN":0.0185,"NOR":0.0245,"TUN":0.0005,"ECU":0.0085,"UZB":0.0005,"MAR":0.0175,"PAN":0.0005,"IRQ":0.0005,"RSA":0.0005,"SEN":0.0065,"CIV":0.0045,"COD":0.0015,"CPV":0.0005,"CZE":0.0025,"QAT":0.0005,"BEL":0.0225,"AUS":0.0015,"KSA":0.0005,"AUT":0.0045,"CRO":0.0095,"EGY":0.0025,"SWE":0.0035}},{"date":"2026-06-11","p":{"ESP":0.1645,"NZL":0.0005,"SUI":0.0125,"ENG":0.1085,"FRA":0.1605,"KOR":0.0025,"HAI":0.0005,"BRA":0.0845,"JOR":0.0005,"CUW":0.0005,"ARG":0.0855,"GER":0.0525,"COL":0.0185,"IRN":0.0015,"POR":0.1055,"GHA":0.0015,"NED":0.0405,"ALG":0.0015,"BIH":0.0015,"USA":0.0115,"CAN":0.0035,"TUR":0.0125,"URU":0.0105,"MEX":0.0135,"PAR":0.0015,"SCO":0.0025,"JPN":0.0175,"NOR":0.0245,"TUN":0.0005,"ECU":0.0085,"UZB":0.0005,"MAR":0.0155,"PAN":0.0005,"IRQ":0.0005,"RSA":0.0005,"SEN":0.0075,"CIV":0.0045,"COD":0.0015,"CPV":0.0005,"CZE":0.0015,"QAT":0.0005,"BEL":0.0215,"AUS":0.0015,"KSA":0.0005,"AUT":0.0045,"CRO":0.0095,"EGY":0.0025,"SWE":0.0035}},{"date":"2026-06-12","p":{"ESP":0.1695,"NZL":0.0005,"SUI":0.0135,"ENG":0.1045,"FRA":0.1605,"KOR":0.0045,"HAI":0.0005,"BRA":0.0855,"JOR":0.0005,"CUW":0.0005,"ARG":0.0885,"GER":0.0515,"COL":0.0175,"IRN":0.0015,"POR":0.1105,"GHA":0.0015,"NED":0.0445,"ALG":0.0015,"BIH":0.0015,"USA":0.0115,"CAN":0.0035,"TUR":0.0115,"URU":0.0095,"MEX":0.0145,"PAR":0.0015,"SCO":0.0025,"JPN":0.0205,"NOR":0.0245,"TUN":0.0005,"ECU":0.0085,"UZB":0.0005,"MAR":0.0155,"PAN":0.0005,"IRQ":0.0005,"RSA":0.0005,"SEN":0.0065,"CIV":0.0035,"COD":0.0015,"CPV":0.0005,"CZE":0.0005,"QAT":0.0005,"BEL":0.0205,"AUS":0.0015,"KSA":0.0005,"AUT":0.0045,"CRO":0.0085,"EGY":0.0025,"SWE":0.0035}},{"date":"2026-06-13","p":{"ESP":0.1685,"NZL":0.0005,"SUI":0.0135,"ENG":0.0965,"FRA":0.1605,"KOR":0.0045,"HAI":0.0005,"BRA":0.0835,"JOR":0.0005,"CUW":0.0005,"ARG":0.0785,"GER":0.0515,"COL":0.0165,"IRN":0.0015,"POR":0.1055,"GHA":0.0015,"NED":0.0485,"ALG":0.0015,"BIH":0.0015,"USA":0.0195,"CAN":0.0025,"TUR":0.0115,"URU":0.0095,"MEX":0.0145,"PAR":0.0015,"SCO":0.0025,"JPN":0.0205,"NOR":0.0255,"TUN":0.0005,"ECU":0.0085,"UZB":0.0005,"MAR":0.0145,"PAN":0.0005,"IRQ":0.0005,"RSA":0.0005,"SEN":0.0065,"CIV":0.0035,"COD":0.0015,"CPV":0.0005,"CZE":0.0015,"QAT":0.0005,"BEL":0.0205,"AUS":0.0015,"KSA":0.0005,"AUT":0.0045,"CRO":0.0085,"EGY":0.0015,"SWE":0.0035}},{"date":"2026-06-14","p":{"ESP":0.1665,"NZL":0.0005,"SUI":0.0095,"ENG":0.0965,"FRA":0.1635,"KOR":0.0035,"HAI":0.0005,"BRA":0.0745,"JOR":0.0005,"CUW":0.0005,"ARG":0.0785,"GER":0.0515,"COL":0.0155,"IRN":0.0015,"POR":0.1135,"GHA":0.0015,"NED":0.0505,"ALG":0.0015,"BIH":0.0015,"USA":0.0205,"CAN":0.0025,"TUR":0.0065,"URU":0.0085,"MEX":0.0125,"PAR":0.0015,"SCO":0.0025,"JPN":0.0165,"NOR":0.0245,"TUN":0.0005,"ECU":0.0075,"UZB":0.0005,"MAR":0.0215,"PAN":0.0005,"IRQ":0.0005,"RSA":0.0005,"SEN":0.0065,"CIV":0.0035,"COD":0.0015,"CPV":0.0005,"CZE":0.0015,"QAT":0.0005,"BEL":0.0195,"AUS":0.0035,"KSA":0.0005,"AUT":0.0035,"CRO":0.0085,"EGY":0.0015,"SWE":0.0025}},{"date":"2026-06-15","p":{"ESP":0.1625,"NZL":0.0005,"SUI":0.0085,"ENG":0.0965,"FRA":0.1605,"KOR":0.0045,"HAI":0.0005,"BRA":0.0665,"JOR":0.0005,"CUW":0.0005,"ARG":0.0805,"GER":0.0615,"COL":0.0155,"IRN":0.0015,"POR":0.1075,"GHA":0.0015,"NED":0.0505,"ALG":0.0015,"BIH":0.0015,"USA":0.0205,"CAN":0.0025,"TUR":0.0045,"URU":0.0085,"MEX":0.0135,"PAR":0.0015,"SCO":0.0025,"JPN":0.0205,"NOR":0.0245,"TUN":0.0005,"ECU":0.0045,"UZB":0.0005,"MAR":0.0225,"PAN":0.0005,"IRQ":0.0005,"RSA":0.0005,"SEN":0.0065,"CIV":0.0055,"COD":0.0015,"CPV":0.0005,"CZE":0.0015,"QAT":0.0005,"BEL":0.0195,"AUS":0.0035,"KSA":0.0005,"AUT":0.0045,"CRO":0.0085,"EGY":0.0015,"SWE":0.0055}},{"date":"2026-06-16","p":{"ESP":0.1415,"NZL":0.0005,"SUI":0.0085,"ENG":0.1055,"FRA":0.1765,"KOR":0.0035,"HAI":0.0005,"BRA":0.0665,"JOR":0.0005,"CUW":0.0005,"ARG":0.0925,"GER":0.0635,"COL":0.0155,"IRN":0.0005,"POR":0.1075,"GHA":0.0015,"NED":0.0455,"ALG":0.0015,"BIH":0.0015,"USA":0.0205,"CAN":0.0025,"TUR":0.0045,"URU":0.0065,"MEX":0.0125,"PAR":0.0015,"SCO":0.0025,"JPN":0.0185,"NOR":0.0245,"TUN":0.0005,"ECU":0.0045,"UZB":0.0005,"MAR":0.0215,"PAN":0.0005,"IRQ":0.0005,"RSA":0.0005,"SEN":0.0065,"CIV":0.0055,"COD":0.0015,"CPV":0.0005,"CZE":0.0015,"QAT":0.0005,"BEL":0.0175,"AUS":0.0035,"KSA":0.0005,"AUT":0.0045,"CRO":0.0085,"EGY":0.0025,"SWE":0.0055}},{"date":"2026-06-17","p":{"ESP":0.1325,"NZL":0.0005,"SUI":0.0085,"ENG":0.1045,"FRA":0.1845,"KOR":0.0035,"HAI":0.0005,"BRA":0.0665,"JOR":0.0005,"CUW":0.0005,"ARG":0.1105,"GER":0.0565,"COL":0.0145,"IRN":0.0005,"POR":0.1045,"GHA":0.0015,"NED":0.0445,"ALG":0.0015,"BIH":0.0015,"USA":0.0225,"CAN":0.0025,"TUR":0.0045,"URU":0.0065,"MEX":0.0145,"PAR":0.0015,"SCO":0.0025,"JPN":0.0165,"NOR":0.0265,"TUN":0.0005,"ECU":0.0045,"UZB":0.0005,"MAR":0.0235,"PAN":0.0005,"IRQ":0.0005,"RSA":0.0005,"SEN":0.0065,"CIV":0.0055,"COD":0.0005,"CPV":0.0005,"CZE":0.0005,"QAT":0.0005,"BEL":0.0165,"AUS":0.0045,"KSA":0.0005,"AUT":0.0045,"CRO":0.0075,"EGY":0.0025,"SWE":0.0055}},{"date":"2026-06-18","p":{"ESP":0.1375,"NZL":0.0005,"SUI":0.0085,"ENG":0.1285,"FRA":0.1845,"KOR":0.0035,"HAI":0.0005,"BRA":0.0665,"JOR":0.0005,"CUW":0.0005,"ARG":0.1225,"GER":0.0565,"COL":0.0165,"IRN":0.0005,"POR":0.0805,"GHA":0.0015,"NED":0.0395,"ALG":0.0015,"BIH":0.0015,"USA":0.0225,"CAN":0.0025,"TUR":0.0045,"URU":0.0065,"MEX":0.0135,"PAR":0.0015,"SCO":0.0025,"JPN":0.0165,"NOR":0.0265,"TUN":0.0005,"ECU":0.0045,"UZB":0.0005,"MAR":0.0235,"PAN":0.0005,"IRQ":0.0005,"RSA":0.0005,"SEN":0.0065,"CIV":0.0055,"COD":0.0015,"CPV":0.0005,"CZE":0.0005,"QAT":0.0005,"BEL":0.0165,"AUS":0.0045,"KSA":0.0005,"AUT":0.0045,"CRO":0.0065,"EGY":0.0025,"SWE":0.0055}},{"date":"2026-06-19","p":{"ESP":0.1365,"NZL":0.0005,"SUI":0.0095,"ENG":0.1285,"FRA":0.1845,"KOR":0.0035,"HAI":0.0005,"BRA":0.0665,"JOR":0.0005,"CUW":0.0005,"ARG":0.1175,"GER":0.0585,"COL":0.0165,"IRN":0.0005,"POR":0.0735,"GHA":0.0015,"NED":0.0395,"ALG":0.0005,"BIH":0.0005,"USA":0.0245,"CAN":0.0035,"TUR":0.0045,"URU":0.0055,"MEX":0.0155,"PAR":0.0015,"SCO":0.0015,"JPN":0.0165,"NOR":0.0255,"TUN":0.0005,"ECU":0.0045,"UZB":0.0005,"MAR":0.0265,"PAN":0.0005,"IRQ":0.0005,"RSA":0.0005,"SEN":0.0055,"CIV":0.0045,"COD":0.0015,"CPV":0.0005,"CZE":0.0005,"QAT":0.0005,"BEL":0.0155,"AUS":0.0045,"KSA":0.0005,"AUT":0.0045,"CRO":0.0065,"EGY":0.0025,"SWE":0.0055}},{"date":"2026-06-20","p":{"ESP":0.1365,"NZL":0.0005,"SUI":0.0085,"ENG":0.1255,"FRA":0.1855,"KOR":0.0035,"HAI":0,"BRA":0.0615,"JOR":0.0005,"CUW":0.0005,"ARG":0.1175,"GER":0.0635,"COL":0.0155,"IRN":0.0005,"POR":0.0735,"GHA":0.0005,"NED":0.0395,"ALG":0.0005,"BIH":0.0005,"USA":0.0325,"CAN":0.0035,"TUR":0,"URU":0.0055,"MEX":0.0125,"PAR":0.0015,"SCO":0.0015,"JPN":0.0135,"NOR":0.0245,"TUN":0.0005,"ECU":0.0045,"UZB":0.0005,"MAR":0.0275,"PAN":0.0005,"IRQ":0.0005,"RSA":0.0005,"SEN":0.0055,"CIV":0.0045,"COD":0.0015,"CPV":0.0005,"CZE":0.0005,"QAT":0.0005,"BEL":0.0155,"AUS":0.0035,"KSA":0.0005,"AUT":0.0045,"CRO":0.0065,"EGY":0.0015,"SWE":0.0045}},{"date":"2026-06-21","p":{"ESP":0.1365,"NZL":0.0005,"SUI":0.0075,"ENG":0.1255,"FRA":0.1975,"KOR":0.0035,"HAI":0,"BRA":0.0595,"JOR":0.0005,"CUW":0.0005,"ARG":0.1175,"GER":0.0565,"COL":0.0145,"IRN":0.0005,"POR":0.0685,"GHA":0.0005,"NED":0.0575,"ALG":0.0005,"BIH":0.0005,"USA":0.0385,"CAN":0.0035,"TUR":0,"URU":0.0055,"MEX":0.0125,"PAR":0.0015,"SCO":0.0015,"JPN":0.0365,"NOR":0.0245,"TUN":0,"ECU":0.0015,"UZB":0.0005,"MAR":0.0225,"PAN":0.0005,"IRQ":0.0005,"RSA":0.0005,"SEN":0.0055,"CIV":0.0055,"COD":0.0015,"CPV":0.0005,"CZE":0.0005,"QAT":0.0005,"BEL":0.0155,"AUS":0.0025,"KSA":0.0005,"AUT":0.0035,"CRO":0.0055,"EGY":0.0025,"SWE":0.0025}},{"date":"2026-06-22","p":{"ESP":0.1385,"NZL":0.0005,"SUI":0.0065,"ENG":0.1255,"FRA":0.1975,"KOR":0.0025,"HAI":0,"BRA":0.0555,"JOR":0.0005,"CUW":0.0005,"ARG":0.1335,"GER":0.0565,"COL":0.0145,"IRN":0.0005,"POR":0.0675,"GHA":0.0015,"NED":0.0545,"ALG":0.0005,"BIH":0.0005,"USA":0.0355,"CAN":0.0035,"TUR":0,"URU":0.0015,"MEX":0.0125,"PAR":0.0015,"SCO":0.0015,"JPN":0.0235,"NOR":0.0195,"TUN":0,"ECU":0.0015,"UZB":0.0005,"MAR":0.0215,"PAN":0.0005,"IRQ":0.0005,"RSA":0.0005,"SEN":0.0055,"CIV":0.0045,"COD":0.0015,"CPV":0.0015,"CZE":0.0005,"QAT":0.0005,"BEL":0.0105,"AUS":0.0025,"KSA":0.0005,"AUT":0.0035,"CRO":0.0045,"EGY":0.0025,"SWE":0.0025}},{"date":"2026-06-23","p":{"ESP":0.1385,"NZL":0.0005,"SUI":0.0065,"ENG":0.1235,"FRA":0.1975,"KOR":0.0025,"HAI":0,"BRA":0.0505,"JOR":0,"CUW":0.0005,"ARG":0.1415,"GER":0.0565,"COL":0.0145,"IRN":0.0005,"POR":0.0675,"GHA":0.0015,"NED":0.0475,"ALG":0.0005,"BIH":0.0005,"USA":0.0355,"CAN":0.0035,"TUR":0,"URU":0.0015,"MEX":0.0125,"PAR":0.0015,"SCO":0.0015,"JPN":0.0185,"NOR":0.0285,"TUN":0,"ECU":0.0015,"UZB":0.0005,"MAR":0.0185,"PAN":0.0005,"IRQ":0.0005,"RSA":0.0005,"SEN":0.0025,"CIV":0.0035,"COD":0.0015,"CPV":0.0005,"CZE":0.0005,"QAT":0.0005,"BEL":0.0125,"AUS":0.0025,"KSA":0.0005,"AUT":0.0025,"CRO":0.0045,"EGY":0.0025,"SWE":0.0025}},{"date":"2026-06-24","p":{"ESP":0.1385,"NZL":0.0005,"SUI":0.0065,"ENG":0.1085,"FRA":0.1855,"KOR":0.0025,"HAI":0,"BRA":0.0515,"JOR":0,"CUW":0.0005,"ARG":0.1465,"GER":0.0535,"COL":0.0155,"IRN":0.0005,"POR":0.0815,"GHA":0.0015,"NED":0.0535,"ALG":0.0005,"BIH":0.0005,"USA":0.0345,"CAN":0.0035,"TUR":0,"URU":0.0015,"MEX":0.0125,"PAR":0.0015,"SCO":0.0015,"JPN":0.0195,"NOR":0.0305,"TUN":0,"ECU":0.0015,"UZB":0.0005,"MAR":0.0165,"PAN":0,"IRQ":0.0005,"RSA":0.0005,"SEN":0.0025,"CIV":0.0035,"COD":0.0005,"CPV":0.0015,"CZE":0.0005,"QAT":0.0005,"BEL":0.0115,"AUS":0.0025,"KSA":0.0005,"AUT":0.0025,"CRO":0.0045,"EGY":0.0025,"SWE":0.0025}},{"date":"2026-06-25","p":{"ESP":0.1385,"NZL":0.0005,"SUI":0.0085,"ENG":0.1055,"FRA":0.1945,"KOR":0.0015,"HAI":0,"BRA":0.0545,"JOR":0,"CUW":0.0005,"ARG":0.1575,"GER":0.0525,"COL":0.0175,"IRN":0.0005,"POR":0.0755,"GHA":0.0015,"NED":0.0565,"ALG":0.0005,"BIH":0.0015,"USA":0.0345,"CAN":0.0025,"TUR":0,"URU":0.0015,"MEX":0.0115,"PAR":0.0005,"SCO":0.0005,"JPN":0.0175,"NOR":0.0285,"TUN":0,"ECU":0.0015,"UZB":0.0005,"MAR":0.0165,"PAN":0,"IRQ":0.0005,"RSA":0.0005,"SEN":0.0025,"CIV":0.0035,"COD":0.0005,"CPV":0.0015,"CZE":0,"QAT":0,"BEL":0.0105,"AUS":0.0015,"KSA":0.0005,"AUT":0.0025,"CRO":0.0035,"EGY":0.0025,"SWE":0.0025}},{"date":"2026-06-26","p":{"ESP":0.1375,"NZL":0.0005,"SUI":0.0085,"ENG":0.1005,"FRA":0.1885,"KOR":0.0015,"HAI":0,"BRA":0.0555,"JOR":0,"CUW":0,"ARG":0.1475,"GER":0.0445,"COL":0.0145,"IRN":0.0005,"POR":0.0825,"GHA":0.0015,"NED":0.0575,"ALG":0.0005,"BIH":0.0015,"USA":0.0305,"CAN":0.0025,"TUR":0,"URU":0.0015,"MEX":0.0125,"PAR":0.0015,"SCO":0.0005,"JPN":0.0125,"NOR":0.0345,"TUN":0,"ECU":0.0055,"UZB":0.0005,"MAR":0.0145,"PAN":0,"IRQ":0.0005,"RSA":0.0005,"SEN":0.0025,"CIV":0.0025,"COD":0.0005,"CPV":0.0015,"CZE":0,"QAT":0,"BEL":0.0105,"AUS":0.0015,"KSA":0.0005,"AUT":0.0025,"CRO":0.0045,"EGY":0.0025,"SWE":0.0025}},{"date":"2026-06-27","p":{"ESP":0.1245,"NZL":0.0005,"SUI":0.0095,"ENG":0.1025,"FRA":0.2155,"KOR":0.0005,"HAI":0,"BRA":0.0565,"JOR":0,"CUW":0,"ARG":0.1765,"GER":0.0455,"COL":0.0145,"IRN":0.0005,"POR":0.0785,"GHA":0.0015,"NED":0.0465,"ALG":0.0005,"BIH":0.0015,"USA":0.0255,"CAN":0.0025,"TUR":0,"URU":0,"MEX":0.0125,"PAR":0.0005,"SCO":0.0005,"JPN":0.0155,"NOR":0.0255,"TUN":0,"ECU":0.0065,"UZB":0.0005,"MAR":0.0145,"PAN":0,"IRQ":0,"RSA":0.0005,"SEN":0.0045,"CIV":0.0035,"COD":0.0005,"CPV":0.0015,"CZE":0,"QAT":0,"BEL":0.0135,"AUS":0.0015,"KSA":0,"AUT":0.0015,"CRO":0.0045,"EGY":0.0015,"SWE":0.0025}},{"date":"2026-06-28","p":{"ESP":0.1055,"NZL":0,"SUI":0.0095,"ENG":0.1025,"FRA":0.2295,"KOR":0,"HAI":0,"BRA":0.0555,"JOR":0,"CUW":0,"ARG":0.2115,"GER":0.0365,"COL":0.0235,"IRN":0,"POR":0.0505,"GHA":0.0015,"NED":0.0505,"ALG":0.0015,"BIH":0.0015,"USA":0.0215,"CAN":0.0015,"TUR":0,"URU":0,"MEX":0.0115,"PAR":0.0005,"SCO":0,"JPN":0.0115,"NOR":0.0205,"TUN":0,"ECU":0.0055,"UZB":0,"MAR":0.0135,"PAN":0,"IRQ":0,"RSA":0.0005,"SEN":0.0045,"CIV":0.0025,"COD":0.0005,"CPV":0.0015,"CZE":0,"QAT":0,"BEL":0.0135,"AUS":0.0015,"KSA":0,"AUT":0.0015,"CRO":0.0035,"EGY":0.0015,"SWE":0.0015}},{"date":"2026-06-29","p":{"ESP":0.1105,"NZL":0,"SUI":0.0095,"ENG":0.1025,"FRA":0.2325,"KOR":0,"HAI":0,"BRA":0.0575,"JOR":0,"CUW":0,"ARG":0.2085,"GER":0.0395,"COL":0.0255,"IRN":0,"POR":0.0615,"GHA":0.0015,"NED":0.0505,"ALG":0.0015,"BIH":0.0005,"USA":0.0235,"CAN":0.0025,"TUR":0,"URU":0,"MEX":0.0125,"PAR":0.0005,"SCO":0,"JPN":0.0115,"NOR":0.0195,"TUN":0,"ECU":0.0055,"UZB":0,"MAR":0.0135,"PAN":0,"IRQ":0,"RSA":0,"SEN":0.0045,"CIV":0.0025,"COD":0.0005,"CPV":0.0005,"CZE":0,"QAT":0,"BEL":0.0135,"AUS":0.0015,"KSA":0,"AUT":0.0015,"CRO":0.0035,"EGY":0.0015,"SWE":0.0015}},{"date":"2026-06-30","p":{"ESP":0.1125,"NZL":0,"SUI":0.0085,"ENG":0.1005,"FRA":0.2885,"KOR":0,"HAI":0,"BRA":0.0705,"JOR":0,"CUW":0,"ARG":0.1935,"GER":0,"COL":0.0275,"IRN":0,"POR":0.0605,"GHA":0.0005,"NED":0,"ALG":0.0015,"BIH":0.0005,"USA":0.0275,"CAN":0.0025,"TUR":0,"URU":0,"MEX":0.0165,"PAR":0.0025,"SCO":0,"JPN":0,"NOR":0.0185,"TUN":0,"ECU":0.0055,"UZB":0,"MAR":0.0365,"PAN":0,"IRQ":0,"RSA":0,"SEN":0.0045,"CIV":0.0035,"COD":0.0005,"CPV":0.0005,"CZE":0,"QAT":0,"BEL":0.0135,"AUS":0.0015,"KSA":0,"AUT":0.0015,"CRO":0.0045,"EGY":0.0015,"SWE":0.0015}},{"date":"2026-07-01","p":{"ESP":0.1035,"NZL":0,"SUI":0.0085,"ENG":0.0935,"FRA":0.3275,"KOR":0,"HAI":0,"BRA":0.0665,"JOR":0,"CUW":0,"ARG":0.1895,"GER":0,"COL":0.0275,"IRN":0,"POR":0.0625,"GHA":0.0005,"NED":0,"ALG":0.0015,"BIH":0.0005,"USA":0.0255,"CAN":0.0025,"TUR":0,"URU":0,"MEX":0.0255,"PAR":0.0015,"SCO":0,"JPN":0,"NOR":0.0175,"TUN":0,"ECU":0,"UZB":0,"MAR":0.0235,"PAN":0,"IRQ":0,"RSA":0,"SEN":0.0055,"CIV":0,"COD":0.0005,"CPV":0.0005,"CZE":0,"QAT":0,"BEL":0.0115,"AUS":0.0015,"KSA":0,"AUT":0.0015,"CRO":0.0035,"EGY":0.0015,"SWE":0}},{"date":"2026-07-02","p":{"ESP":0.0995,"NZL":0,"SUI":0.0075,"ENG":0.0825,"FRA":0.3515,"KOR":0,"HAI":0,"BRA":0.0655,"JOR":0,"CUW":0,"ARG":0.1805,"GER":0,"COL":0.0255,"IRN":0,"POR":0.058,"GHA":0.0015,"NED":0,"ALG":0.0005,"BIH":0,"USA":0.0275,"CAN":0.0025,"TUR":0,"URU":0,"MEX":0.0355,"PAR":0.0015,"SCO":0,"JPN":0,"NOR":0.0195,"TUN":0,"ECU":0,"UZB":0,"MAR":0.0255,"PAN":0,"IRQ":0,"RSA":0,"SEN":0,"CIV":0,"COD":0,"CPV":0.0005,"CZE":0,"QAT":0,"BEL":0.0155,"AUS":0.0015,"KSA":0,"AUT":0.0015,"CRO":0.0035,"EGY":0.0015,"SWE":0}},{"date":"2026-07-03","p":{"ESP":0.1225,"ENG":0.0725,"FRA":0.3345,"BRA":0.0625,"ARG":0.1915,"GER":0,"POR":0.063,"NED":0,"USA":0.0255,"URU":0,"MEX":0.0315,"BEL":0.0125,"COL":0.0225,"JPN":0,"NOR":0.0185,"CAN":0.0025,"TUN":0,"ECU":0,"PAR":0.0015,"NZL":0,"AUS":0.0015,"IRN":0,"UZB":0,"KOR":0,"JOR":0,"MAR":0.0235,"RSA":0,"SEN":0,"CIV":0,"GHA":0.0005,"EGY":0.0015,"ALG":0,"CPV":0.0005,"QAT":0,"KSA":0,"SCO":0,"SUI":0.0085,"AUT":0,"CRO":0,"HAI":0,"CUW":0,"PAN":0,"SWE":0,"COD":0,"IRQ":0,"BIH":0,"CZE":0,"TUR":0}}]};
